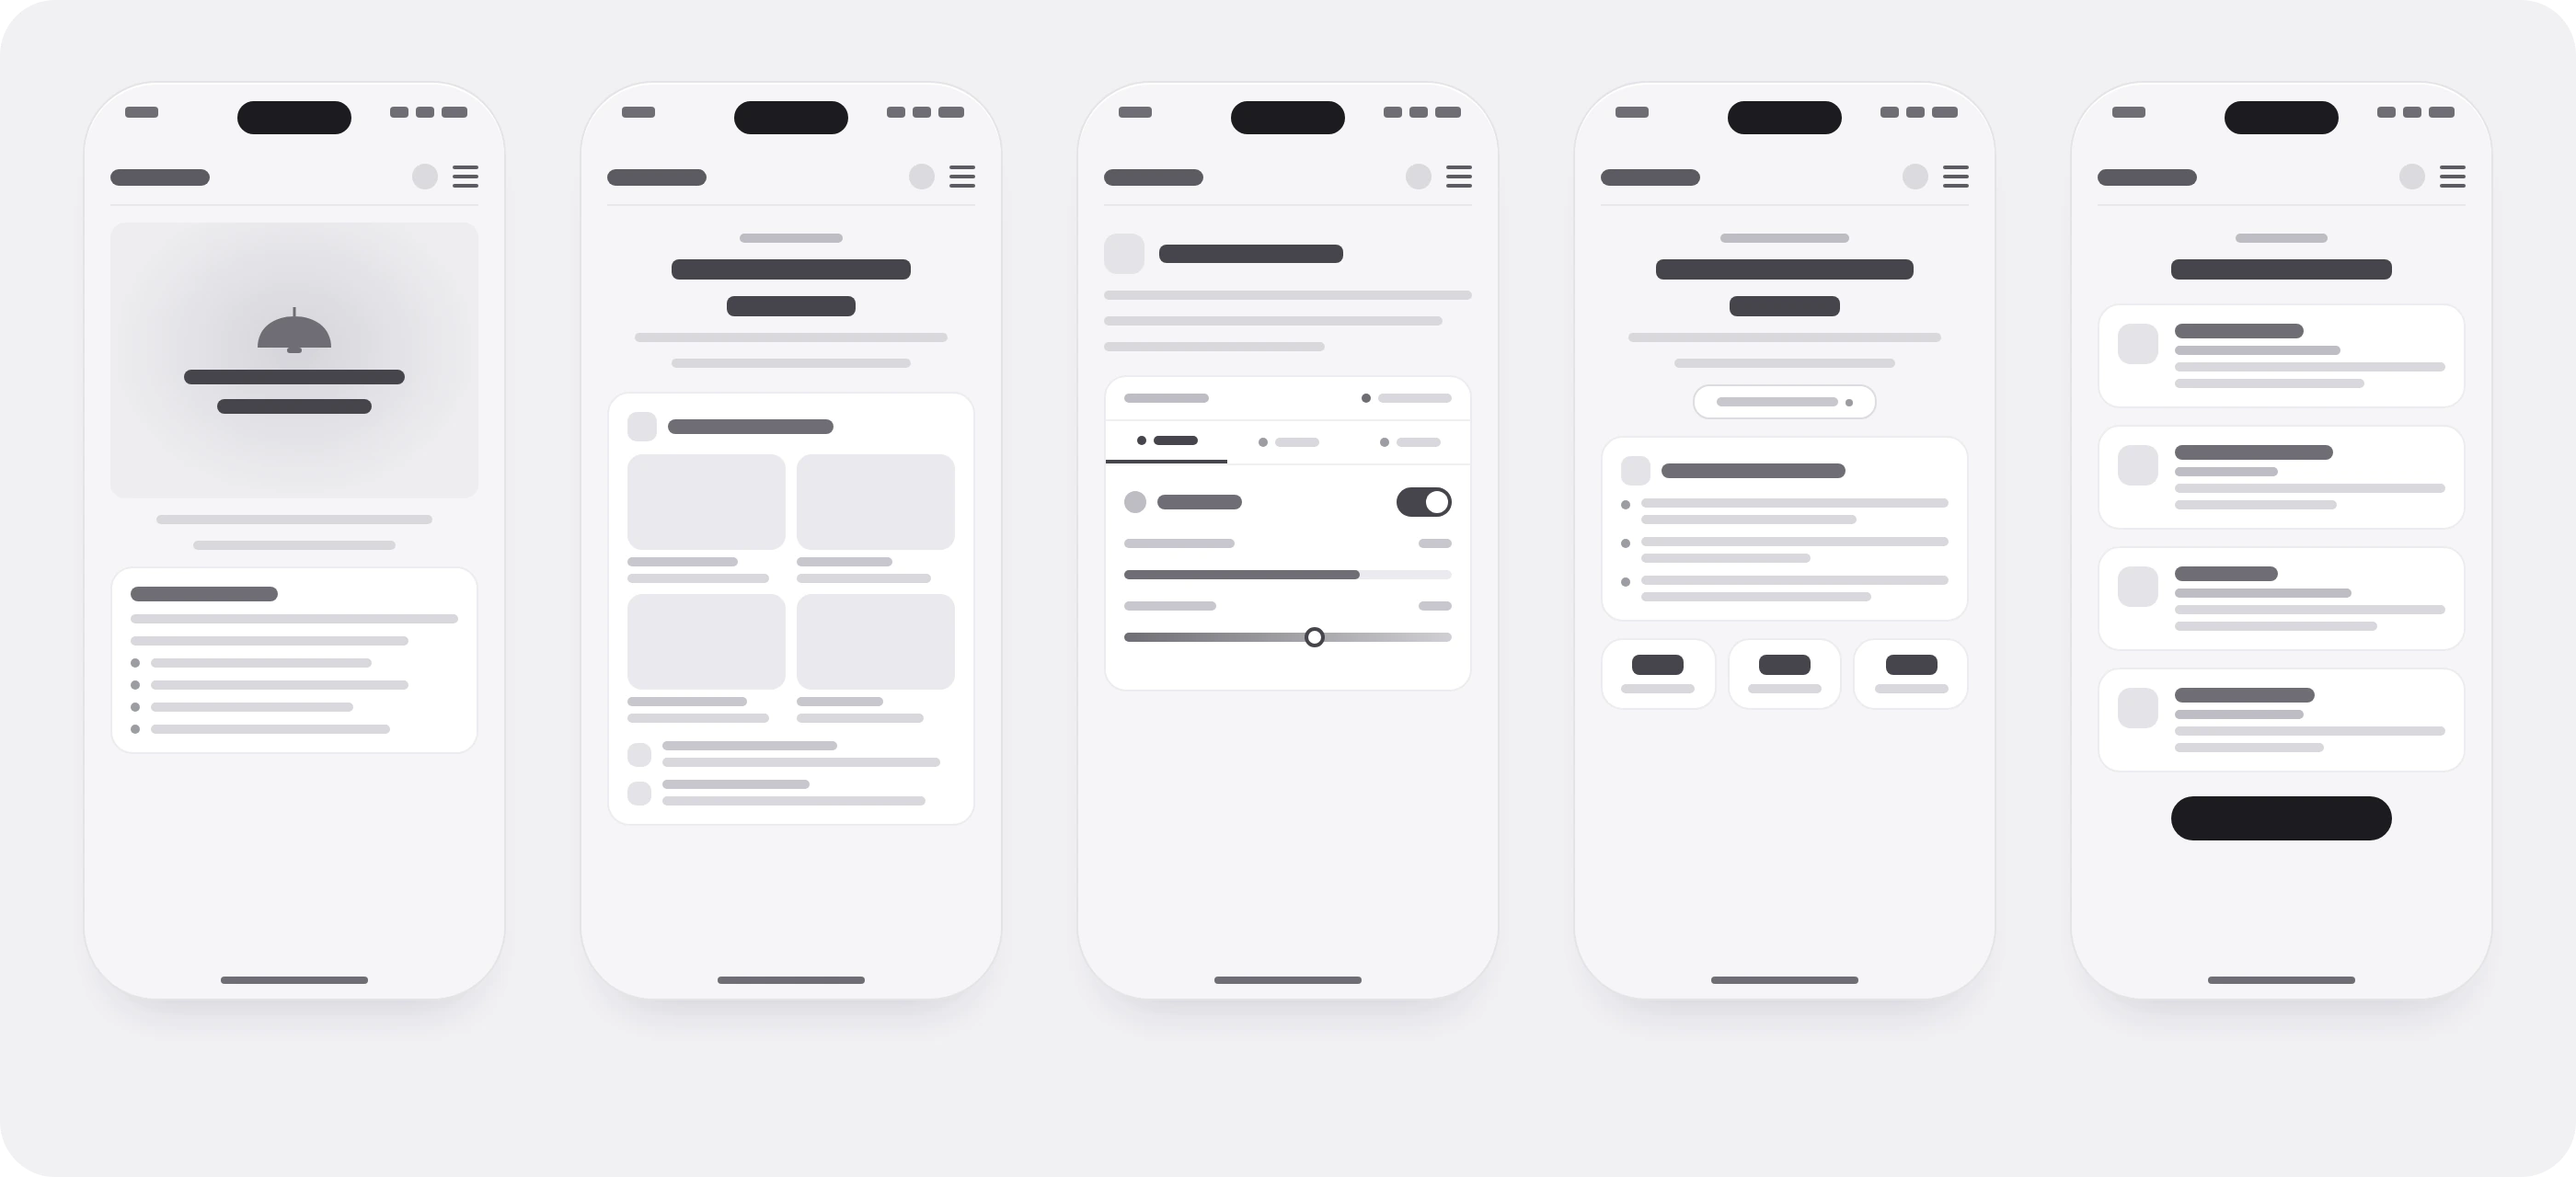
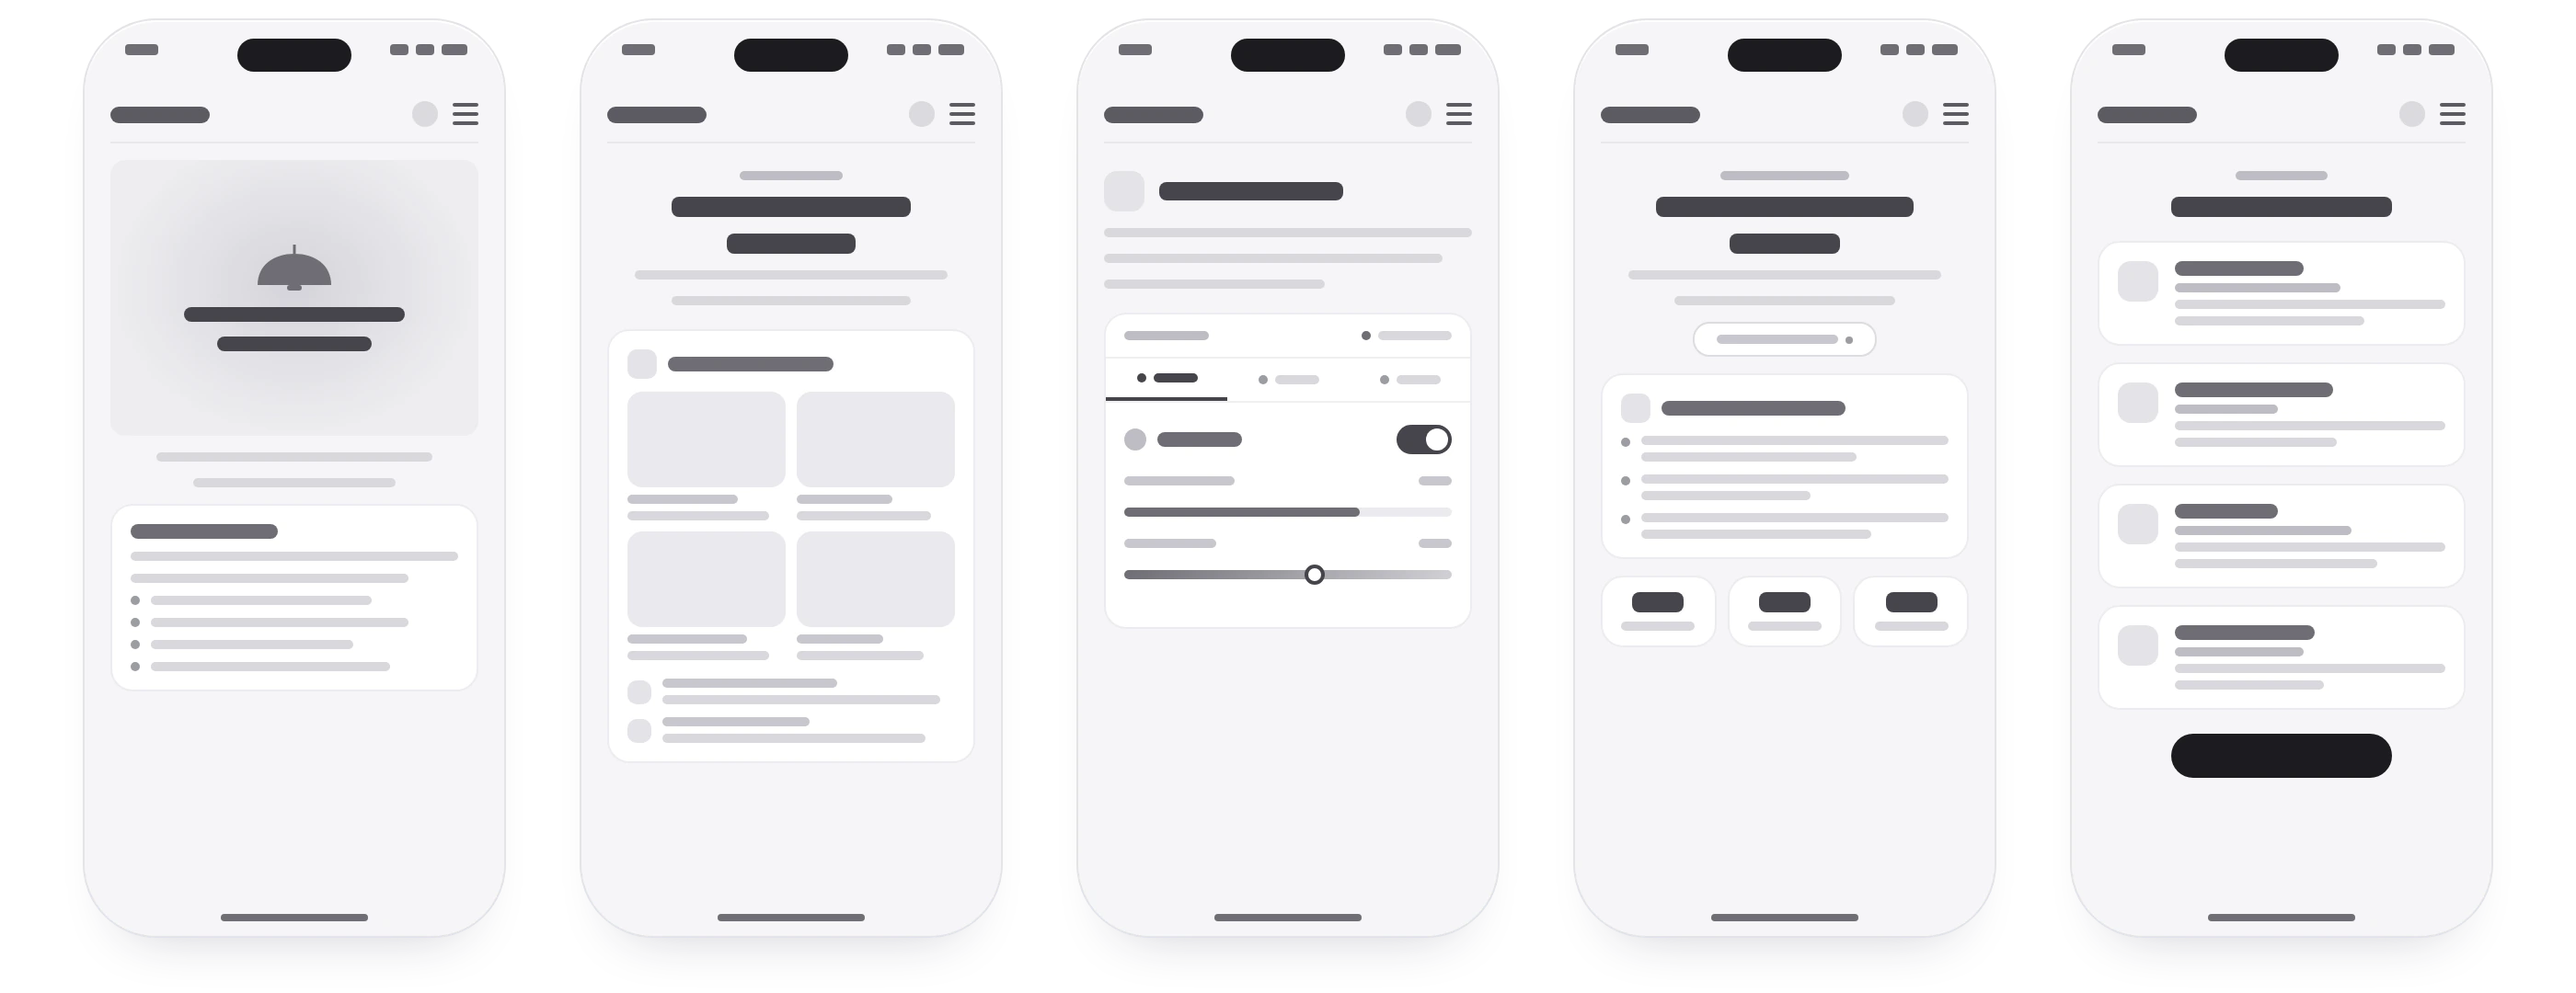
Soulshine: wireframes without the grey panel
Claude-Session: https://claude.ai/code/session_017Bf2Ji9pqjddmca5aaYHp1

diff --git a/index.html b/index.html
@@ -1475,7 +1475,7 @@ html.home-on.at-top .top::after{opacity:0}
       <h2 class="sec-title ss-sub-h" id="ss-web-h">Website</h2>
       <p class="ss-app-intro">The five pages of the site, as wireframes and a user flow on iPhone 17.</p>
       <div class="ss-flows" id="ss-web" style="margin-top:0">
-        <figure class="ss-flow"><button type="button" class="tx-zoom ss-flow-btn" style="--ar:2800/1280" data-full="img/soulshine/wireframes.webp" data-cap="Low-fidelity wireframes of the Soulshine site on iPhone 17: About, Product, Companion app, Research and Team" aria-label="Enlarge the wireframes"><img src="img/soulshine/wireframes.webp" width="2800" height="1280" alt="Five grey low-fidelity wireframes on iPhone 17 screens: About, Product, Companion app, Research and Team" loading="lazy"></button><figcaption class="label">Wireframes · the five pages on iPhone 17</figcaption></figure>
+        <figure class="ss-flow"><button type="button" class="tx-zoom ss-flow-btn" style="--ar:2800/1080" data-full="img/soulshine/wireframes.webp?v=2" data-cap="Low-fidelity wireframes of the Soulshine site on iPhone 17: About, Product, Companion app, Research and Team" aria-label="Enlarge the wireframes"><img src="img/soulshine/wireframes.webp?v=2" width="2800" height="1080" alt="Five grey low-fidelity wireframes on iPhone 17 screens: About, Product, Companion app, Research and Team" loading="lazy"></button><figcaption class="label">Wireframes · the five pages on iPhone 17</figcaption></figure>
         <figure class="ss-flow"><button type="button" class="tx-zoom ss-flow-btn" style="--ar:2800/1700" data-full="img/soulshine/userflow.webp" data-cap="User flow of the Soulshine site: from About to the menu, product, companion app tabs, research, citations, team and contact, plus the light and dark mode switch" aria-label="Enlarge the user flow"><img src="img/soulshine/userflow.webp" width="2800" height="1700" alt="User flow diagram of the Soulshine site on iPhone 17 screens, connected with arrows" loading="lazy"></button><figcaption class="label">User flow · how visitors move through the site</figcaption></figure>
       </div>
       <h2 class="sec-title ss-sub-h" id="ss-brand-h">Brand</h2>
@@ -1574,7 +1574,7 @@ html.home-on.at-top .top::after{opacity:0}
       <h2 class="sec-title" id="ss-app-h">Companion app</h2>
       <p class="ss-app-intro">A welcome screen that pairs the lamp, then one screen with three tabs: Lamp, Focus and Virtual.</p>
       <div class="ss-flows" style="margin-top:0">
-        <figure class="ss-flow"><button type="button" class="tx-zoom ss-flow-btn" style="--ar:2800/1280" data-full="img/soulshine/app-wireframes.webp" data-cap="Companion app wireframes on iPhone 17: Welcome, Lamp, Focus and Virtual" aria-label="Enlarge"><img src="img/soulshine/app-wireframes.webp" width="2800" height="1280" alt="Four grey low-fidelity wireframes of the Soulshine companion app on iPhone 17 screens" loading="lazy"></button><figcaption class="label">Wireframes · welcome and the three tabs</figcaption></figure>
+        <figure class="ss-flow"><button type="button" class="tx-zoom ss-flow-btn" style="--ar:2800/1080" data-full="img/soulshine/app-wireframes.webp?v=2" data-cap="Companion app wireframes on iPhone 17: Welcome, Lamp, Focus and Virtual" aria-label="Enlarge"><img src="img/soulshine/app-wireframes.webp?v=2" width="2800" height="1080" alt="Four grey low-fidelity wireframes of the Soulshine companion app on iPhone 17 screens" loading="lazy"></button><figcaption class="label">Wireframes · welcome and the three tabs</figcaption></figure>
         <figure class="ss-flow"><button type="button" class="tx-zoom ss-flow-btn" style="--ar:2800/940" data-full="img/soulshine/app-flow.webp" data-cap="Companion app user flow: pair the lamp, then move between the Lamp, Focus and Virtual tabs" aria-label="Enlarge"><img src="img/soulshine/app-flow.webp" width="2800" height="940" alt="User flow of the Soulshine companion app connected with arrows" loading="lazy"></button><figcaption class="label">User flow · pairing, then switching tabs</figcaption></figure>
         <figure class="ss-flow"><button type="button" class="tx-zoom ss-flow-btn" style="--ar:2800/1520" data-full="img/soulshine/app-screens.webp" data-cap="Companion app final screens on iPhone 17: Welcome, Lamp, Focus and Virtual" aria-label="Enlarge"><img src="img/soulshine/app-screens.webp" width="2800" height="1520" alt="Four polished dark Soulshine app screens on iPhone 17: welcome, lamp controls, a focus timer and the virtual lamp" loading="lazy"></button><figcaption class="label">Final screens · Welcome, Lamp, Focus, Virtual</figcaption></figure>
       </div>
